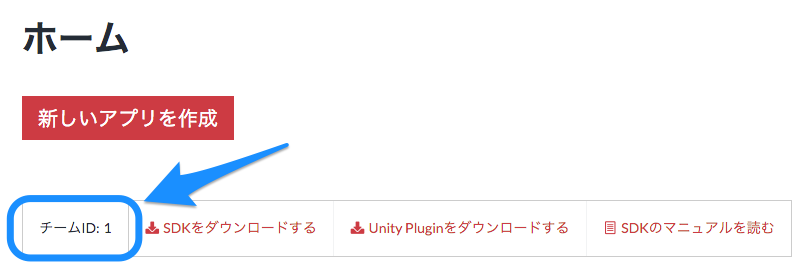
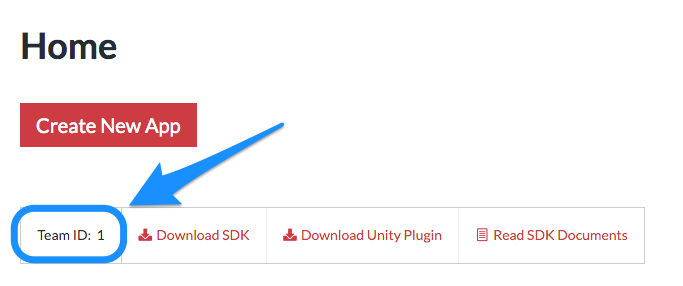
update screen capture

diff --git a/en/apps/devguide/prepare.md b/en/apps/devguide/prepare.md
@@ -6,14 +6,14 @@
 
 Open [USERDIVE For Apps website](https://detector.userdive.com/en/apps/) and check your team ID.
 
-![](./files/create_app_0.png)
+![check team id](../../../ja/apps/devguide/files/create_app_0.png)
 
 
 ## Create New App
 
 Open [USERDIVE for Apps web site](https://detector.userdive.com/en/apps/) and create new app.
 
-![](./files/create_app_1.png)
+![create app 1](../../../ja/apps/devguide/files/create_app_1.png)
 
 Input the followings.
 
@@ -22,7 +22,7 @@ Input the followings.
 - Max Session/Day
 - Put a check mark on enable recording
 
-![](./files/create_app_2.png)
+![create app 2](../../../ja/apps/devguide/files/create_app_2.png)
 
 Check the Bundle ID on Xcode project.   
 **Input the same Bundle ID as from the Xcode.**

diff --git a/en/apps/devguide/integration_manual.md b/en/apps/devguide/integration_manual.md
@@ -15,10 +15,10 @@ Decompress the file which you downloaded, and add it to the Xcode project on app
 
 Add `SystemConfigurationframework` to the project.
 
-![](./files/install_manual_1.png)
+![install manual 1](../../../ja/apps/devguide/files/install_manual_1.png)
 
 ## Change Linker option
 
 Open the Build Settings and add `-ObjC` to Linking -> Other Linker Flags.
 
-![](./files/install_manual_2.png)
+![install manual 2](../../../ja/apps/devguide/files/install_manual_2.png)
